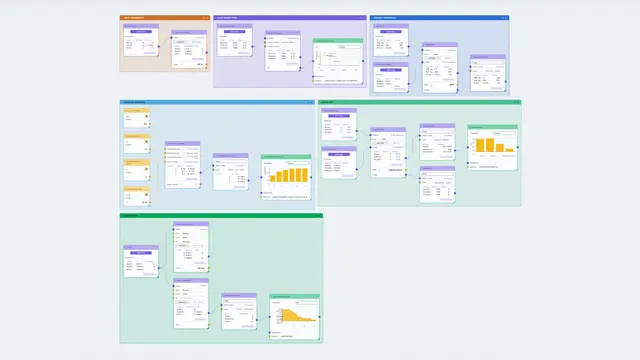
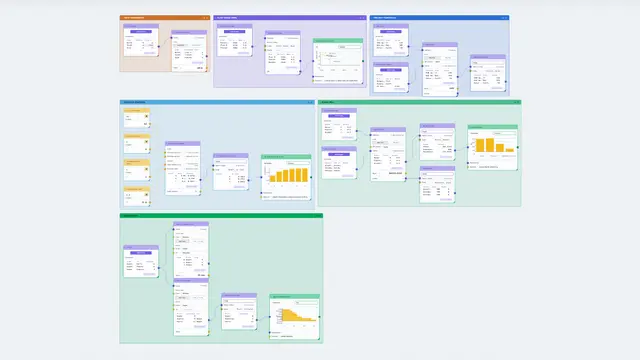
Every optimization card heads its choices: Goal, Each link, Route, Better when, Work, Target
A toggle no longer sits on a card with nothing saying what it decides.

Claude-Session: https://claude.ai/code/session_01BJp3bTVCr7Widpfmiwj4Bj

diff --git a/src/graph/components/FrameNodes.tsx b/src/graph/components/FrameNodes.tsx
@@ -1451,8 +1451,11 @@ export function SolverComponent({ data, emit }: NodeProps<SolverNodeType>) {
   const count = limits && isFrameValue(limits) ? frameRowCount(limits) : null;
   return (
     <NodeShell node={data} emit={emit} hideOutputSockets>
-      <InlineInputs node={data} emit={emit} keys={["options", "objective"]} fullWiredKeys={SOLVER_WHOLE} />
-      <SegToggle value={goal} options={SOLVER_GOAL_OPTIONS} onChange={setGoal} />
+      <InlineInputs node={data} emit={emit} keys={["options"]} fullWiredKeys={SOLVER_WHOLE} />
+      <CardSection label="Goal">
+        <SegToggle value={goal} options={SOLVER_GOAL_OPTIONS} onChange={setGoal} />
+        <InlineInputs node={data} emit={emit} keys={["objective"]} labelFor={() => "Of column"} fullWiredKeys={SOLVER_WHOLE} />
+      </CardSection>
       <InlineInputs node={data} emit={emit} keys={["limits"]} fullWiredKeys={SOLVER_WHOLE} />
       <MeasuredSocketRow side="output" socketKey="plan" nodeId={data.id} emit={emit} payload={data.outputs.plan!.socket} hero>
         <FrameOrCubeDisplay value={previewed(() => data.cachedResult)} label={nodeDisplayName(data)} />
@@ -1478,7 +1481,9 @@ export function AssignmentComponent({ data, emit }: NodeProps<AssignmentNodeType
   return (
     <NodeShell node={data} emit={emit} hideOutputSockets>
       <InlineInputs node={data} emit={emit} keys={["costs"]} fullWiredKeys={OPT_WHOLE} />
-      <SegToggle value={goal} options={ASSIGN_GOAL_OPTIONS} onChange={setGoal} />
+      <CardSection label="Goal">
+        <SegToggle value={goal} options={ASSIGN_GOAL_OPTIONS} onChange={setGoal} />
+      </CardSection>
       <MeasuredSocketRow side="output" socketKey="pairs" nodeId={data.id} emit={emit} payload={data.outputs.pairs!.socket} hero>
         <FrameOrCubeDisplay value={previewed(() => data.cachedResult)} label={nodeDisplayName(data)} />
       </MeasuredSocketRow>
@@ -1494,8 +1499,14 @@ export function ShortestPathComponent({ data, emit }: NodeProps<ShortestPathNode
   const [direction, setDirection] = useNodeField(data, "direction");
   return (
     <NodeShell node={data} emit={emit} hideOutputSockets>
-      <InlineInputs node={data} emit={emit} keys={["links", "cost", "from", "to"]} fullWiredKeys={OPT_WHOLE} />
-      <SegToggle value={direction} options={PATH_DIRECTION_OPTIONS} onChange={setDirection} />
+      <InlineInputs node={data} emit={emit} keys={["links"]} fullWiredKeys={OPT_WHOLE} />
+      <CardSection label="Each link">
+        <InlineInputs node={data} emit={emit} keys={["cost"]} labelFor={() => "Cost"} fullWiredKeys={OPT_WHOLE} />
+        <SegToggle value={direction} options={PATH_DIRECTION_OPTIONS} onChange={setDirection} />
+      </CardSection>
+      <CardSection label="Route">
+        <InlineInputs node={data} emit={emit} keys={["from", "to"]} fullWiredKeys={OPT_WHOLE} />
+      </CardSection>
       <MeasuredSocketRow side="output" socketKey="path" nodeId={data.id} emit={emit} payload={data.outputs.path!.socket} hero>
         <FrameOrCubeDisplay value={previewed(() => data.cachedResult)} label={nodeDisplayName(data)} />
       </MeasuredSocketRow>
@@ -1512,7 +1523,10 @@ export function ParetoComponent({ data, emit }: NodeProps<ParetoNodeType>) {
   const count = all && isFrameValue(all) ? frameRowCount(all) : null;
   return (
     <NodeShell node={data} emit={emit} hideOutputSockets>
-      <InlineInputs node={data} emit={emit} keys={["options", "lower", "higher"]} fullWiredKeys={OPT_WHOLE} />
+      <InlineInputs node={data} emit={emit} keys={["options"]} fullWiredKeys={OPT_WHOLE} />
+      <CardSection label="Better when">
+        <InlineInputs node={data} emit={emit} keys={["lower", "higher"]} labelFor={(k) => (k === "lower" ? "Lower" : "Higher")} fullWiredKeys={OPT_WHOLE} />
+      </CardSection>
       <MeasuredSocketRow side="output" socketKey="front" nodeId={data.id} emit={emit} payload={data.outputs.front!.socket} hero>
         <FrameOrCubeDisplay value={previewed(() => data.cachedResult)} label={nodeDisplayName(data)} />
       </MeasuredSocketRow>
@@ -1528,7 +1542,12 @@ const OPT_WHOLE = new Set(["costs", "links", "cost", "from", "to", "options", "l
 export function StaffingComponent({ data, emit }: NodeProps<StaffingNodeType>) {
   return (
     <NodeShell node={data} emit={emit} hideOutputSockets>
-      <InlineInputs node={data} emit={emit} keys={["arrivals", "minutes", "target", "share"]} fullWiredKeys={OPT_WHOLE} />
+      <CardSection label="Work">
+        <InlineInputs node={data} emit={emit} keys={["arrivals", "minutes"]} fullWiredKeys={OPT_WHOLE} />
+      </CardSection>
+      <CardSection label="Target">
+        <InlineInputs node={data} emit={emit} keys={["target", "share"]} fullWiredKeys={OPT_WHOLE} />
+      </CardSection>
       <MeasuredSocketRow side="output" socketKey="options" nodeId={data.id} emit={emit} payload={data.outputs.options!.socket} hero>
         <FrameOrCubeDisplay value={previewed(() => data.cachedResult)} label={nodeDisplayName(data)} />
       </MeasuredSocketRow>

diff --git a/tree/specs/computation/frame-verbs.md b/tree/specs/computation/frame-verbs.md
@@ -1270,7 +1270,7 @@ Tests: `allocator.test.ts`: the seed's allocation, each mode's worked examples a
 
 The rules the examples use are textbook heuristics: earliest due date (Jackson's rule, optimal for maximum lateness on one machine), shortest processing time (total completion time), first-fit decreasing (at most 11/9 of the optimum plus 6/9 bins, Dósa 2007) and the nearest-neighbor route. "Each group in turn" is a round-robin, not Graham's list scheduling (which gives each job to the earliest-free machine); that rule is Best match, any group, with an Order by on the group's `used`.
 
-**The card** reads as the questions a plan answers, each a section whose heading asks it, so its rows name only what they hold: Items; **Next item** (the order toggle, **Of column**, and the Order formula as **Ties by** where a column or Cheapest first decides, else **By formula**); **Cost of an item** (**Column**, and the Cost formula as **Plus formula**, or **Formula** with no column); then **Groups**, **Steps** and **Budget per step** (**Budget**, **Most picks**, the fit), each folded until used. Local Search's card follows it: Plan; **Cost of an item** (Column, Plus formula, **Plus penalty**); Groups; **Search** (Quick | Thorough, **Most rounds**).
+**The card** reads as the questions a plan answers, each a section whose heading asks it, so its rows name only what they hold: Items; **Next item** (the order toggle, **Of column**, and the Order formula as **Ties by** where a column or Cheapest first decides, else **By formula**); **Cost of an item** (**Column**, and the Cost formula as **Plus formula**, or **Formula** with no column); then **Groups**, **Steps** and **Budget per step** (**Budget**, **Most picks**, the fit), each folded until used. Local Search's card follows it: Plan; **Cost of an item** (Column, Plus formula, **Plus penalty**); Groups; **Search** (Quick | Thorough, **Most rounds**). The other optimization cards head their choices the same way: Solver's **Goal** (Maximize | Minimize, **Of column**), Assignment's **Goal**, Shortest Path's **Each link** (Cost, the direction) and **Route** (From, To), Pareto Front's **Better when** (**Lower**, **Higher**), and Staffing's **Work** and **Target**.
 
 Tests: `queue.test.ts` (ordering by a list, the budget and both fits, the Start row, Allowed with `group_`, shared items and both kinds of turn, the refusals, the save).
 
